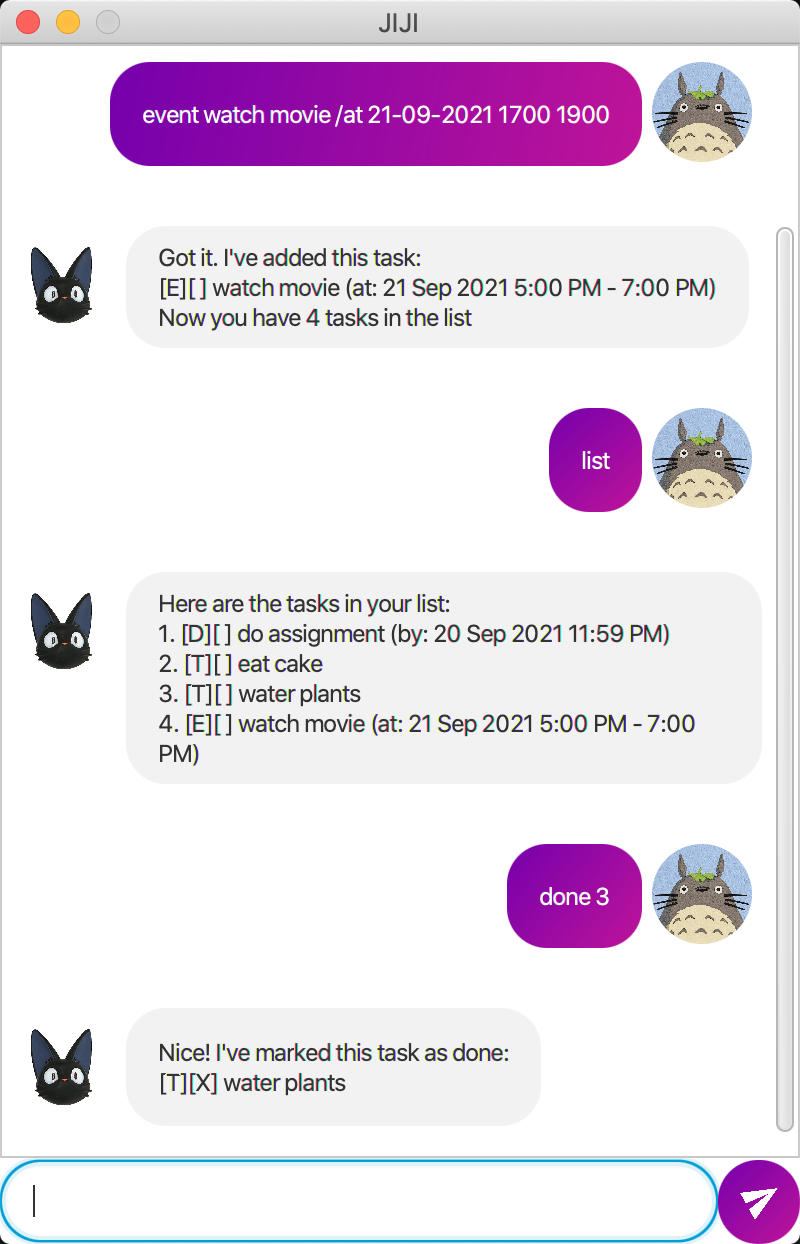
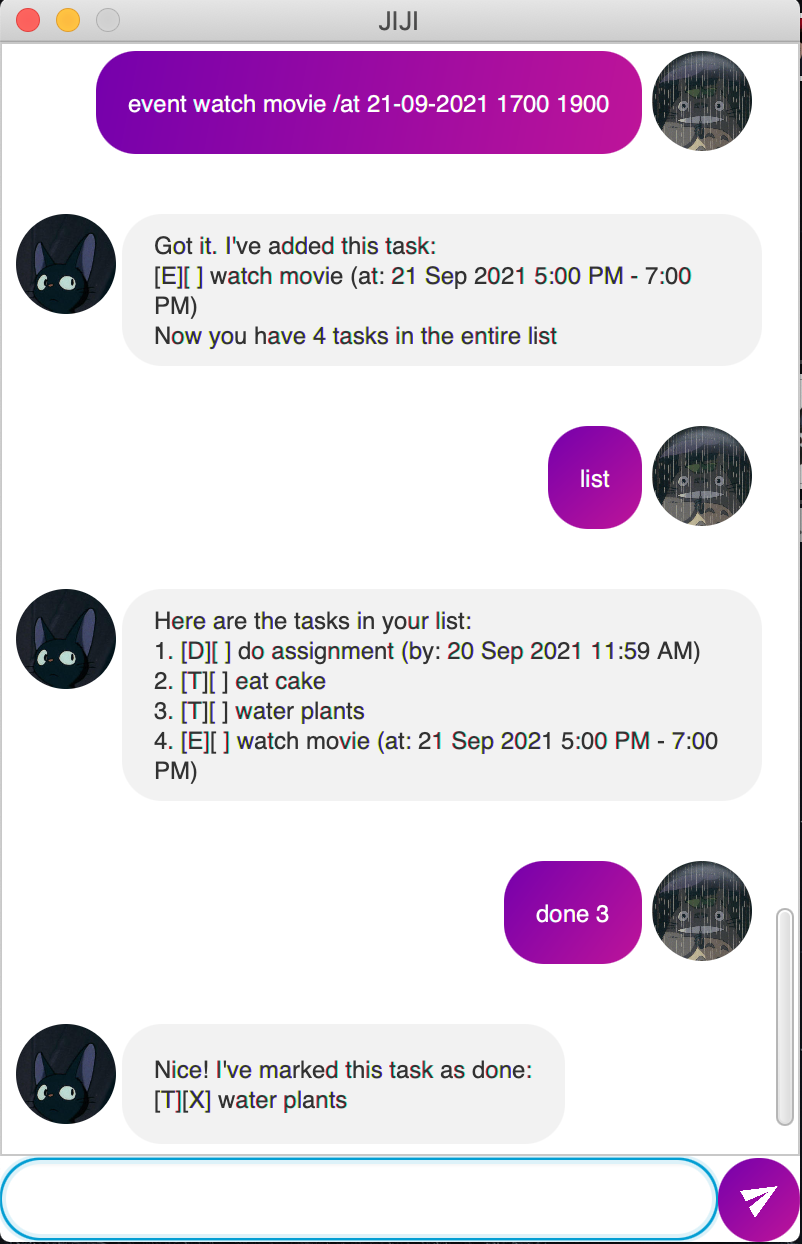
Change to use Studio Ghibli released images

diff --git a/docs/README.md b/docs/README.md
@@ -11,6 +11,7 @@ If tracking tasks by yourself gets dull, give JIJI a try!
 ## Features
 
 > Words in `<>` brackets are parameters that should be supplied by the user
+> You cannot add duplicate tasks to a list
 
 ### Adding a deadline task: `deadline`
 
@@ -111,3 +112,9 @@ find | `find <keyword>`
 help | `help`
 list | `list`
 todo | `todo <description>`
+
+## Credits
+These are the sources of Studio Ghibli images used
+* [Jiji from Kiki's Delivery Service](https://www.ghibli.jp/works/majo/#frame&gid=1&pid=18)
+* [Totoro from My Neighbor Totoro](https://www.ghibli.jp/works/totoro/#frame&gid=1&pid=29)
+
